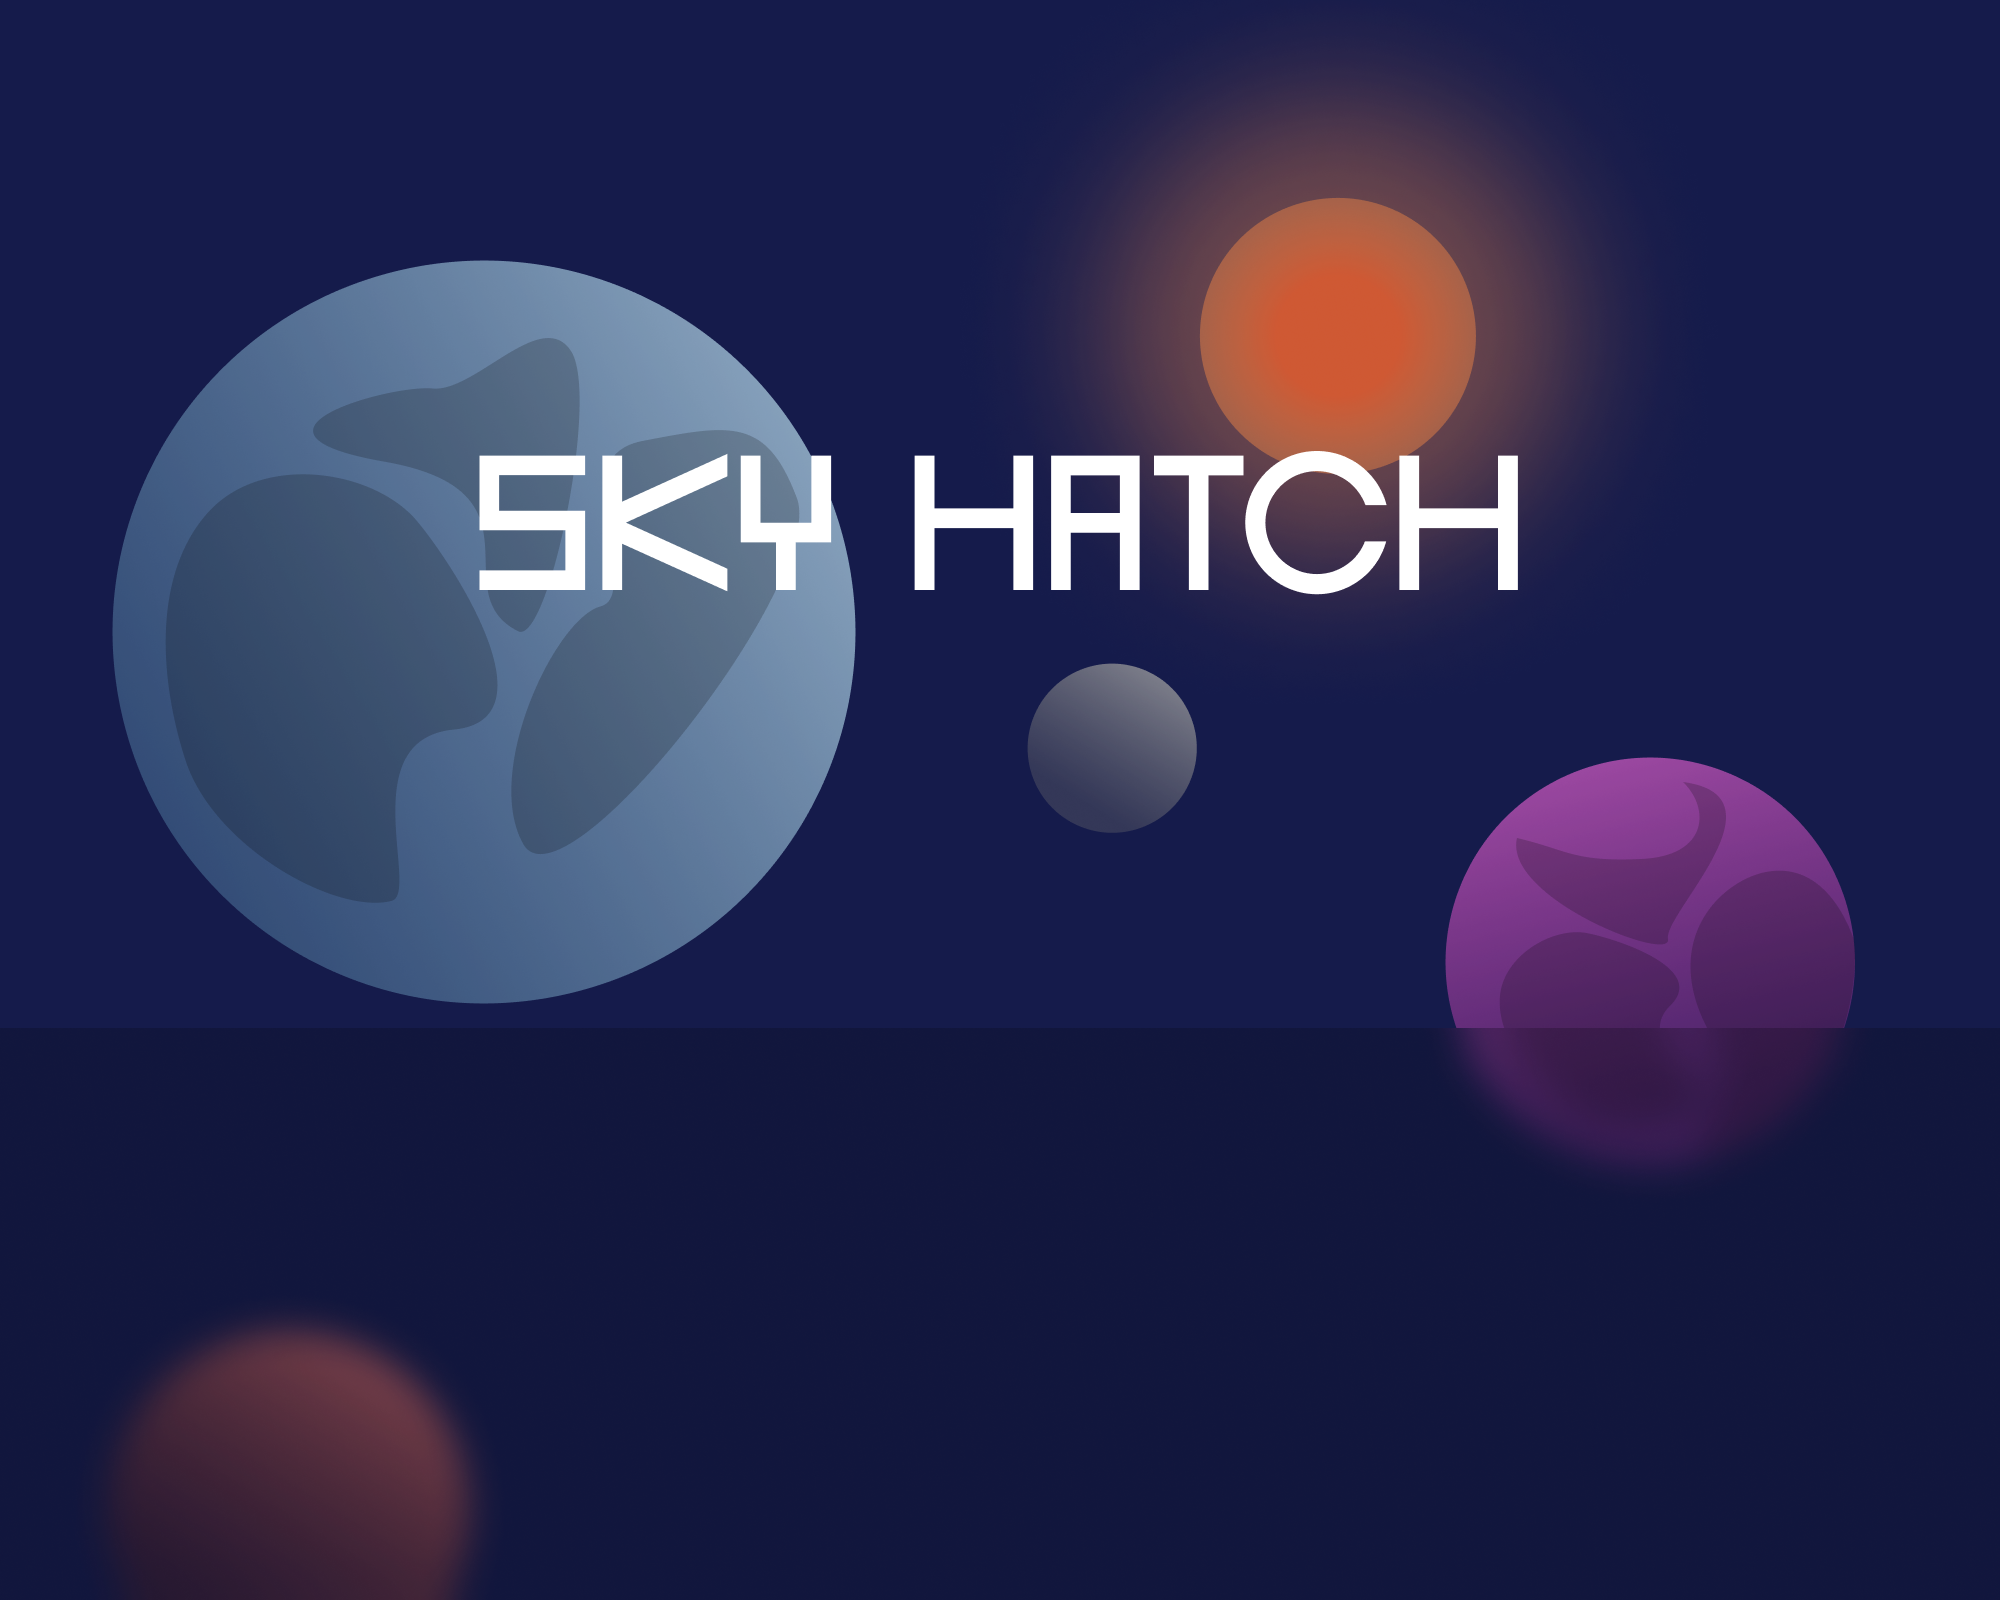
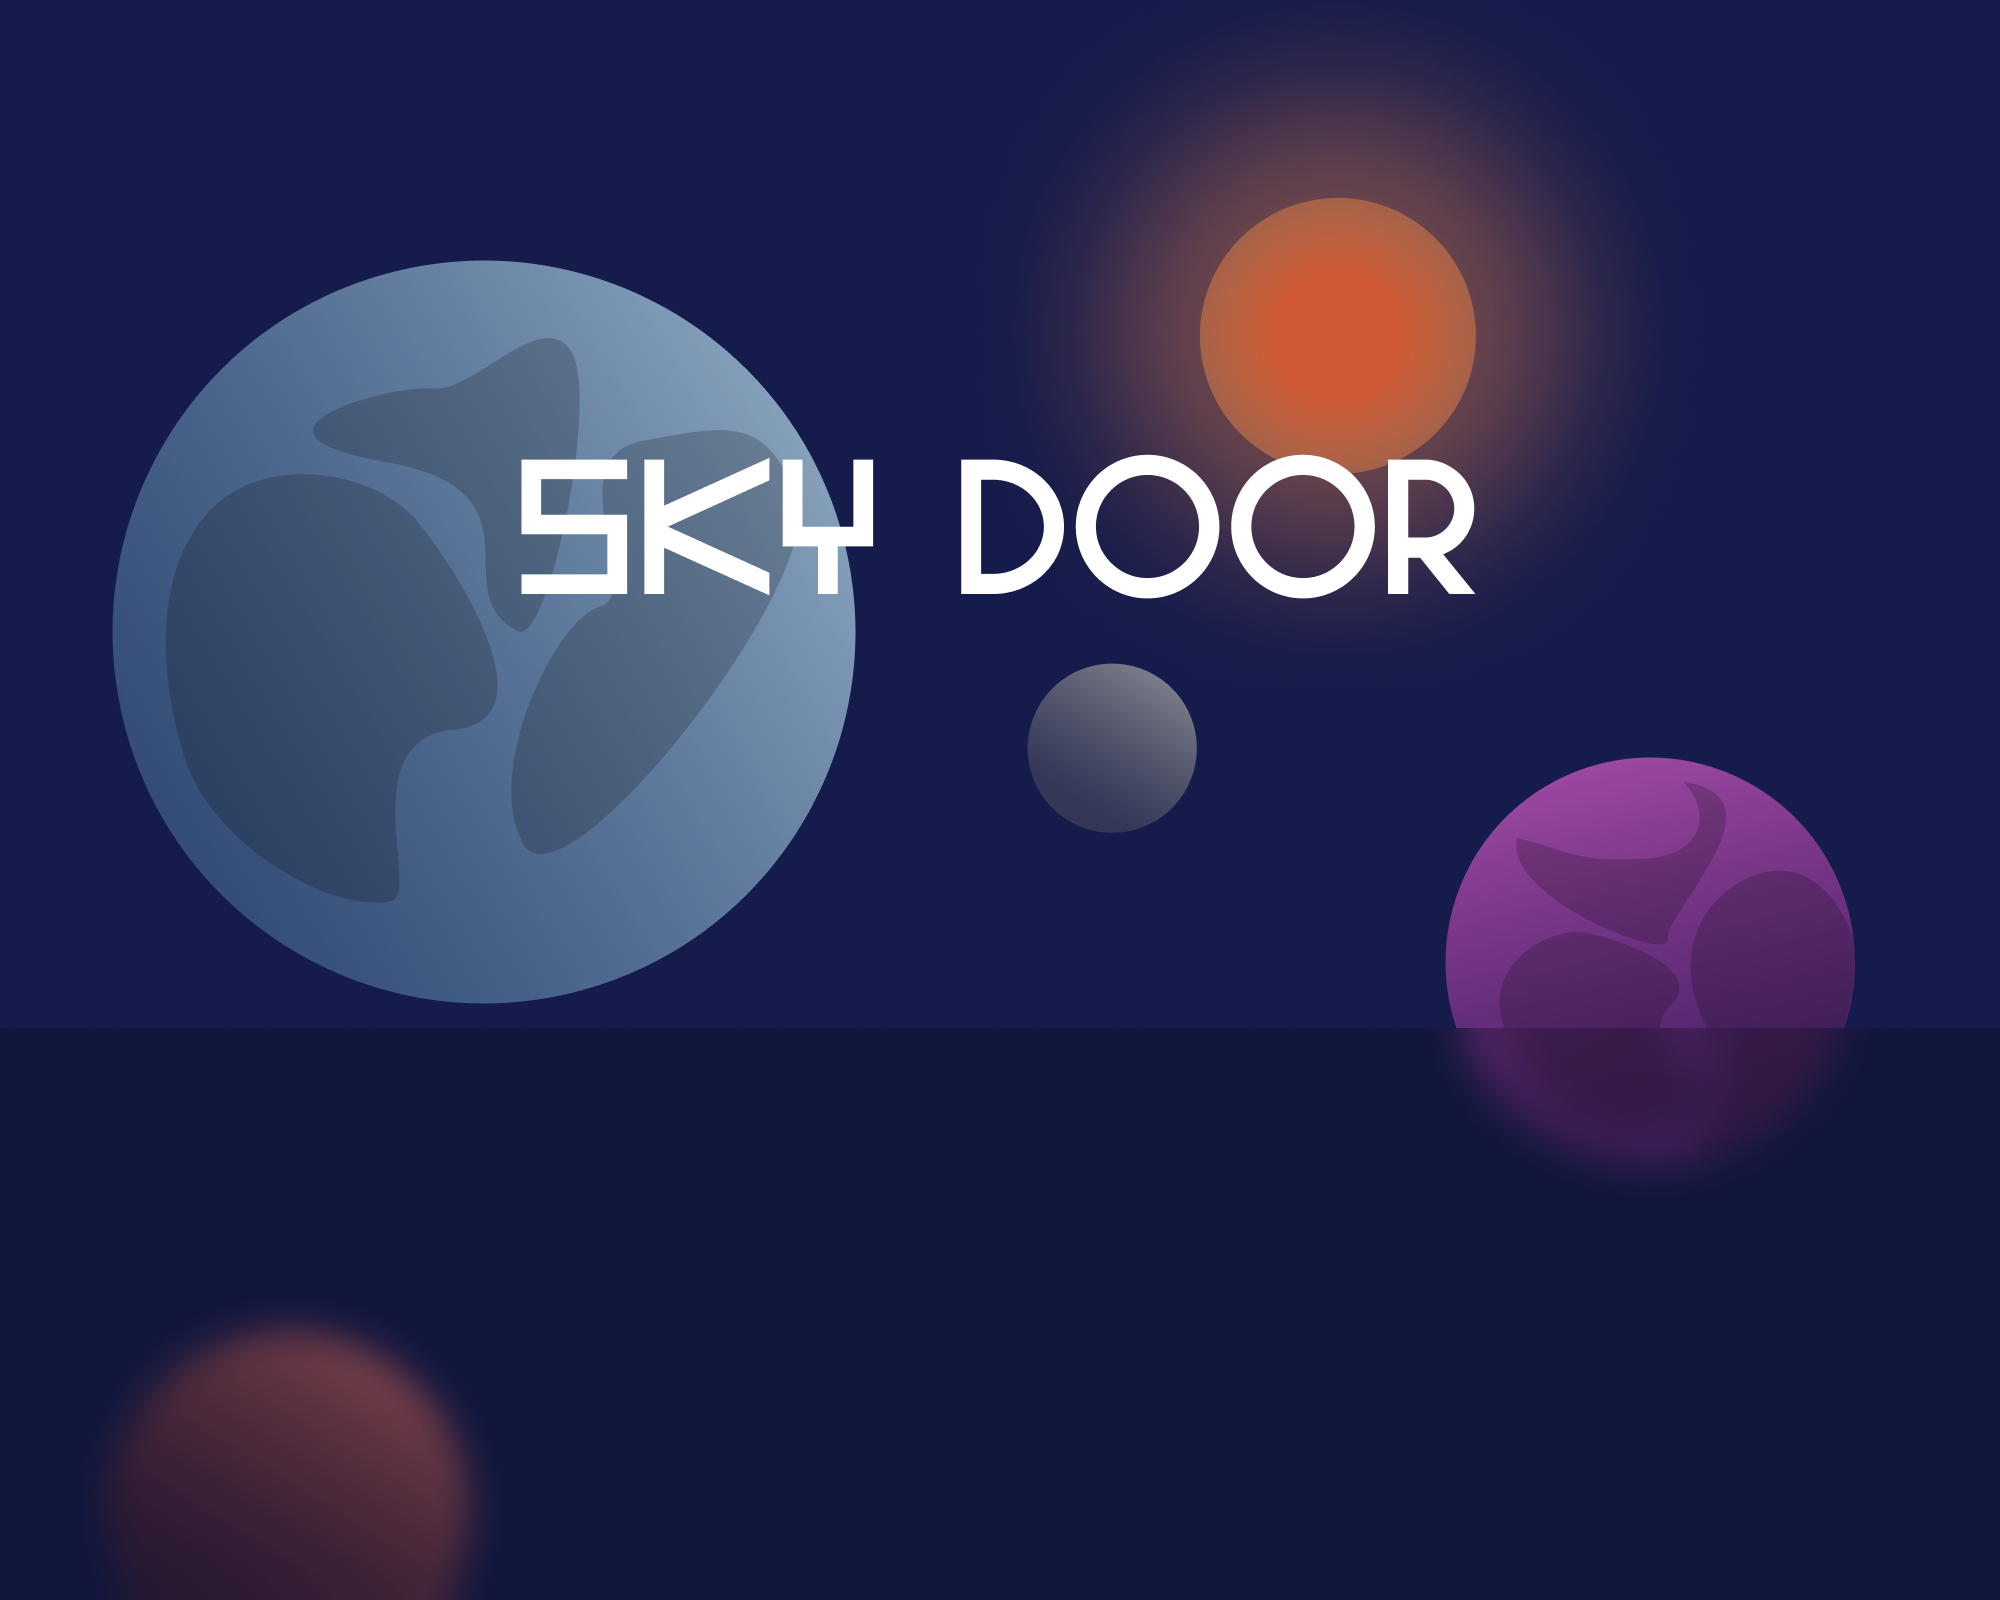
Add files via upload

Changed region(s): [[0.217, 0.2812, 0.775, 0.375]]

diff --git a/pup.py b/pup.py
@@ -14,7 +14,7 @@ yellow = (255, 255, 0)
 white = (255, 255, 255)
 ## Экран
 screen = pygame.display.set_mode((1000, 800))
-pygame.display.set_caption('Sky Hatch')
+pygame.display.set_caption('Sky Door')
 ## Фоны
 mm = pygame.image.load(os.path.join("image\dg", "play1.png"))
 mm = pygame.transform.scale(mm,(1000,800))
@@ -652,7 +652,7 @@ def prod13():
                         print("Продолжение9")
                         click.play()
                         prod14()
-                    elif menu.hovered and menu.text == "Расскжи побольше о жителях " :
+                    elif menu.hovered and menu.text == "Расскажи побольше о жителях " :
                         print("Продолжение10")
                         click.play()
                         prod15()
@@ -683,7 +683,7 @@ def prod15():
     unNoDialog = Dialog(screen)
     unNoDialog.message = ("Средний возраст жителей: 42+- ",
                           "Основное хобби: азартные игры ",
-                          "Родная земля: Марс ",
+                          "Родная планета: Марс ",
                           "Музыкальные вкусы: Шансон, Рок ",
                           "Пристыковка через 5...4...3...2...1... ")
 
@@ -723,7 +723,7 @@ def prod16():
     unNoDialog.show = True
     unNoDialog.next()
     menus = [Menu("Здравствйте, у нас экстренная ситуация ", (50, 640)),
-             Menu("Я должен быть в списке, меня отпрвили починить что-то ", (50, 700)), ]
+             Menu("Я должен быть в списке, меня отправили починить что-то ", (50, 700)), ]
     while True:
         pygame.event.pump()
         for menu in menus:
@@ -740,7 +740,7 @@ def prod16():
                         print("Продолжение1")
                         click.play()
                         prod17()
-                    elif menu.hovered and menu.text == "Я должен быть в списке, меня отпрвили починить что-то " :
+                    elif menu.hovered and menu.text == "Я должен быть в списке, меня отправили починить что-то " :
                         print("Продолжение10")
                         click.play()
                         prod18()
@@ -810,7 +810,7 @@ def prod18():
                     elif menu.hovered and menu.text == "Я отказываюсь... ":
                         print("Продолжение10")
                         click.play()
-                        prod20()
+                        prod19()
 
 def prod19():
     bg7.back()
@@ -948,13 +948,13 @@ def end2():
 def end3():
     bg2.back()
     unNoDialog = Dialog(screen)
-    unNoDialog.message = ("Вы и ваш помошник смогли заправиться и успешно улететь",
-                          "обратно на вашну родную планету с полным баком ")
+    unNoDialog.message = ("Вы и ваш помошник смогли заправиться и успешно улететь ",
+                          "обратно на вашу родную планету с полным баком ")
     unNoDialog.show = True
     unNoDialog.next()
     screen.fill((0, 0, 0))
     while True:
-        printText("Спасибо за прохождение истории о путсшествии космонавта!", "gilroy-bold.ttf", 40, 55, 300, green)
+        printText("Спасибо за прохождение истории о путешествии космонавта!", "gilroy-bold.ttf", 40, 55, 300, green)
         printText("Нажмите -SPACEBAR- для того чтобы выйти в меню ", "gilroy-medium.ttf", 35, 159, 360, white)
         pygame.display.flip()
         for event in pygame.event.get():
